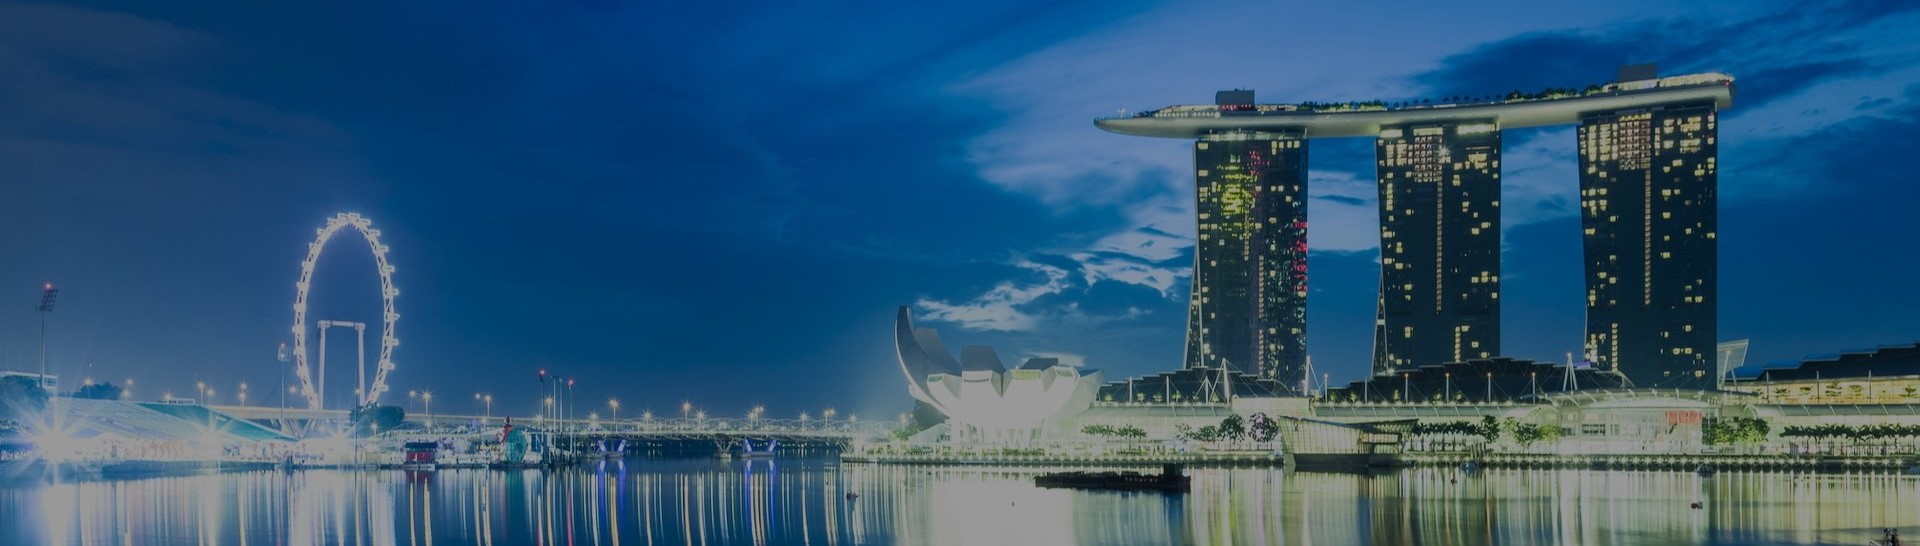
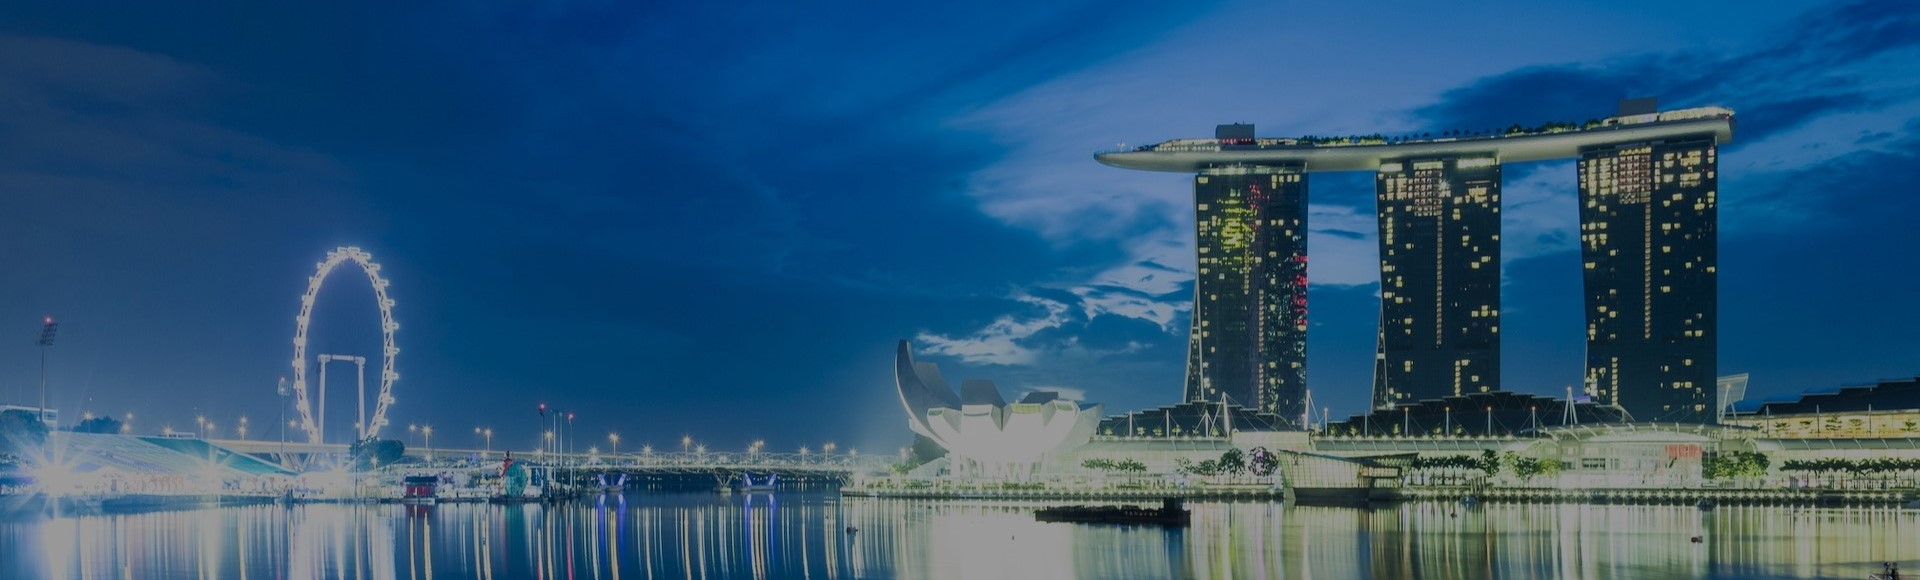
update

diff --git a/_sass/_base.scss b/_sass/_base.scss
@@ -158,11 +158,11 @@ aside {
 // Homepage Header
 
 header {
-    padding-top: 12.5rem;
-    padding-bottom: 7.5rem;
+    padding-top: 5%;
+    padding-bottom: 5%;
     text-align: center;
     color: lightgray;
-    background-image: url('../archive/header/marina-bay.jpg');
+    background-image: url('../archive/header/marina-bay-cropped.jpg');
     background-repeat: no-repeat;
     background-attachment: scroll;
     background-position: center center;

diff --git a/_includes/header.html b/_includes/header.html
@@ -1,6 +1,7 @@
 <header>
     <div class="header-content">
         <div class="header-content-inner">
+            <hr>  
             <h2>Leveraging sound and music computing technology</h2>
             <h2>to enhance human health and potential</h2>
             <hr>  
